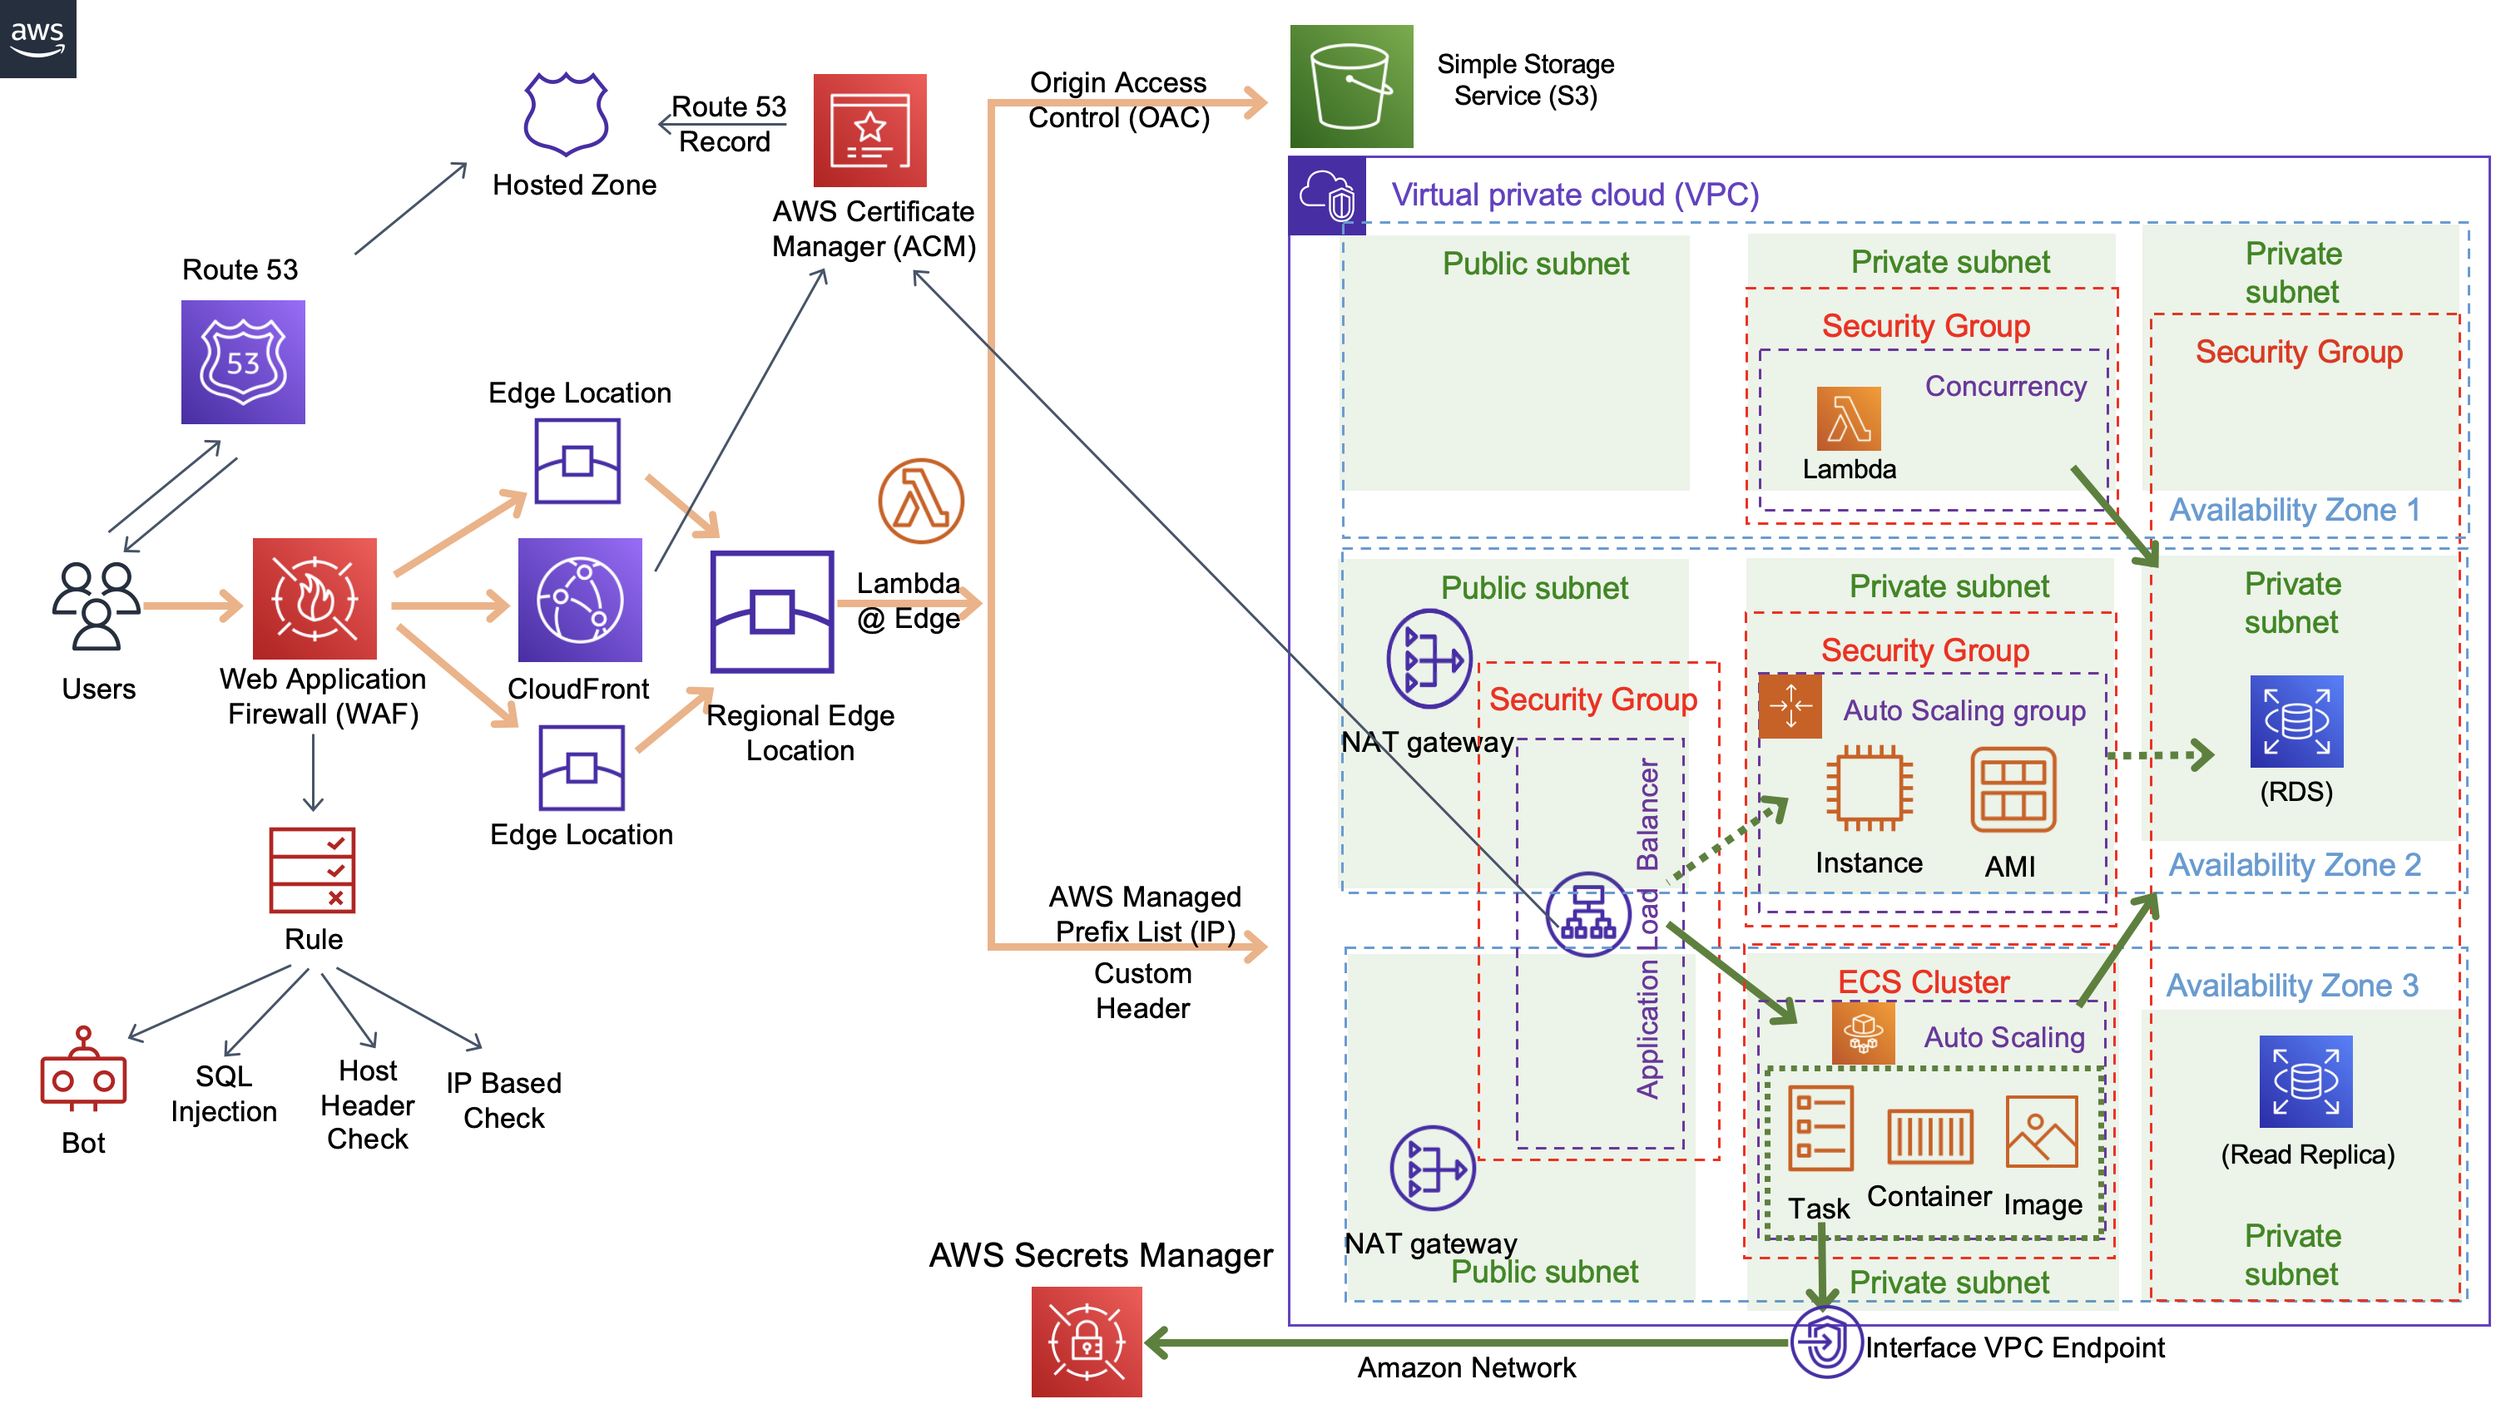
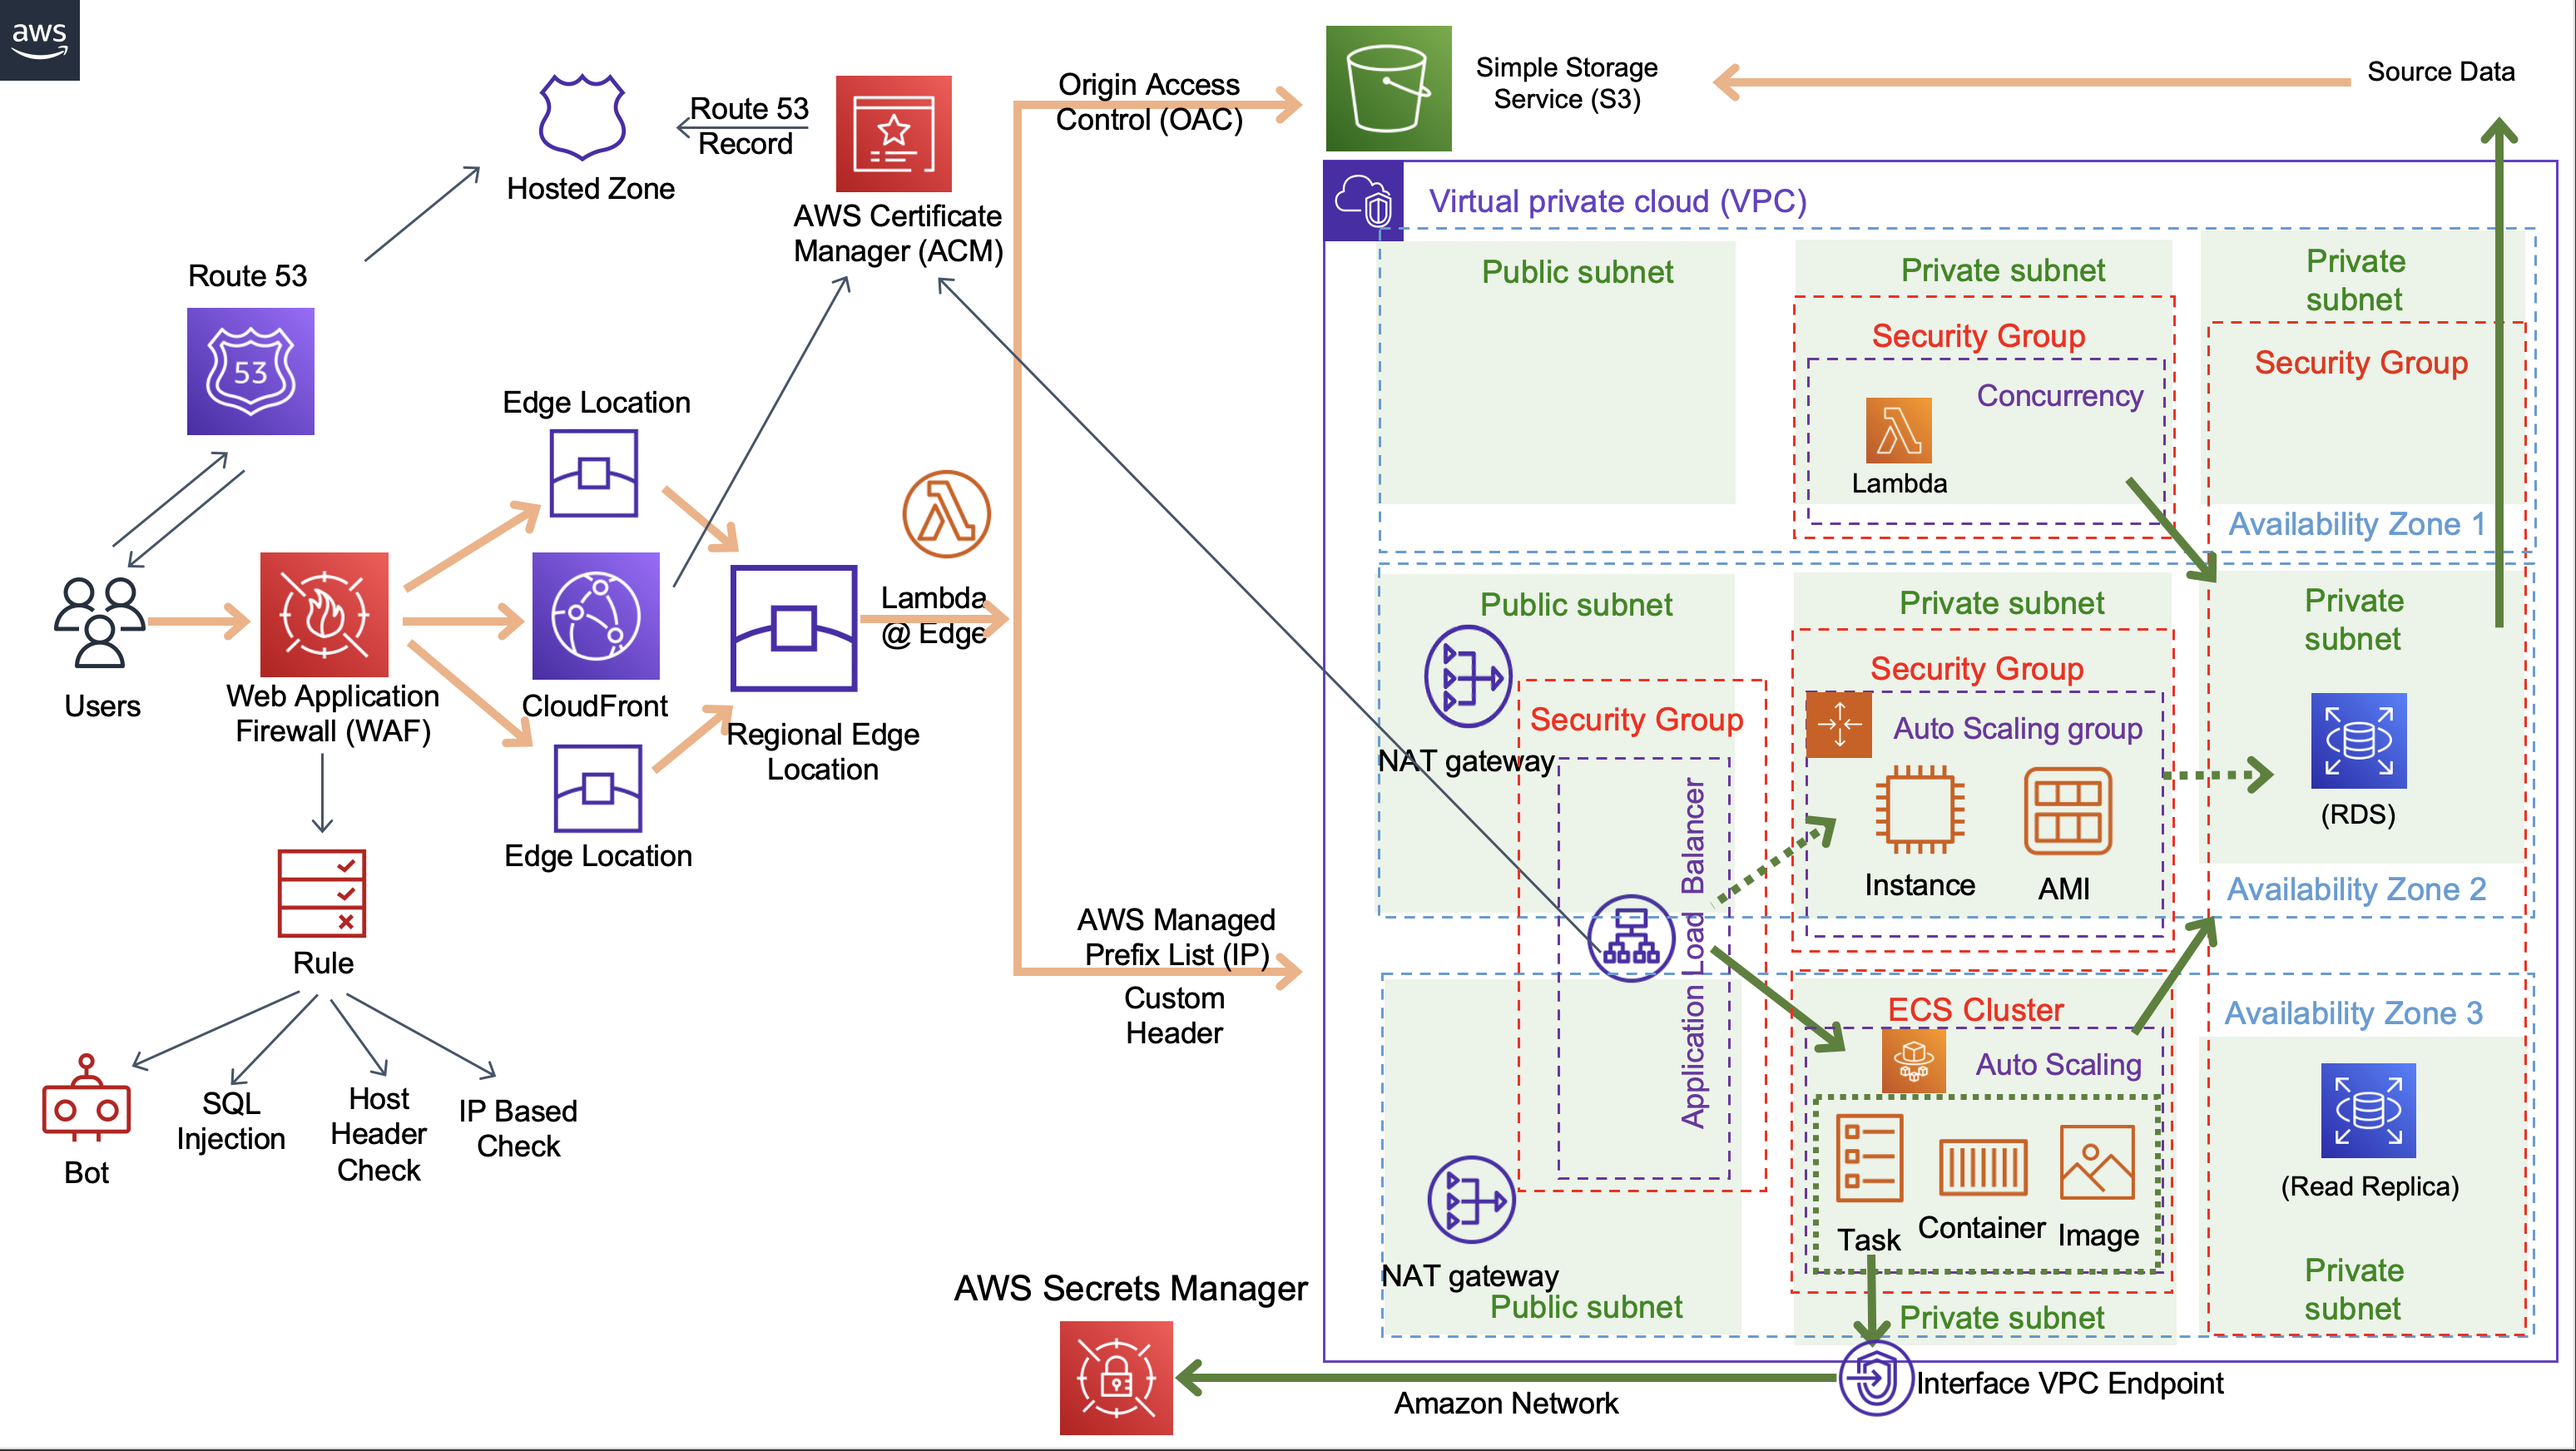
added data collection

diff --git a/1. data-collection-from-data-source.py b/1. data-collection-from-data-source.py
@@ -1,0 +1,64 @@
+### Below is to get data from data source using python ####
+### To achieve 100% automation, the file will be added as a TASK in --
+### Task Scheduler (for Windows);
+### Automator Applications (for Mac); 
+### After we successfully setup the task, this python scripts is 
+### run at 8 am every morning (for example) and the latest data is collected 
+### and uploaded to the cloud or any data storage you have.
+### From there, data is processed for further usage. Like report/dashboard building.
+### as MacOS itself doesnot have a similarity to Task Scheduler in Windows,
+### we can find alternatives in the market. The choices are many.
+
+# Required package:
+# $ pip install requests
+
+import requests
+import os
+from datetime import date
+import subprocess
+URL="https://www150.statcan.gc.ca/n1/dai-quo/ssi/homepage/ind-all.json"
+# get the data file URL
+# Canada Statistics provides the URL for data files
+s3_bucket="backup-juliaren"
+# get the name for upload s3 bucket 
+data_folder_path='data'
+
+response = requests.get(URL, allow_redirects=True)
+
+# next is to save the file in today's folder under the main folder of 'data'
+# 1) to find today's date
+today=date.today()  # the format is 2023-07-28
+# 2) to get today's folder file path
+today_folder="./data/{}".format(today)
+    # 2.1) to check today's folder exists or not 
+if os.path.isdir(today_folder):
+    today_folder_exists=1
+    # folder already exists
+else:
+    today_folder_exists=0
+    # 2.2) to create today's folder
+    os.makedirs(today_folder)
+
+# 3) to get file name from the URL
+    # 3.1) to find the last '/' in the URL
+position=URL.rfind('/') # it shows the number of the position where the last '/' is 
+print(position)
+    # 3.2) to get the file name
+file_name=URL[position+1:]
+# 4) to get the file path
+file_path=today_folder + '/'+file_name
+
+# 5) to save the file in the path created just now
+open(file_path, 'wb').write(response.content)
+
+# next is to upload the latest data files to s3 in the cloud using AWS CLI
+# 6) to get the absolute file path
+absolute_path=os.path.abspath(file_path)
+# 7) to upload the file to s3 bucket under the foler of data/today's date/
+# the AWS CLI is like : aws s3 cp "/Users/.../data/2023-07-28/ind-all.json" s3://.../data/2023-07-28/
+# 7.1) to construct command:
+command='aws s3 cp "{}" s3://{}/{}/{}/'.format(absolute_path,s3_bucket,data_folder_path,today)
+# 7.2) to execute the command in python
+process=subprocess.run(command,shell=True)
+# after the file is uploaded into s3 in the cloud, lambda will be invoked and work on data processing
+# the data will go through ETL to its destination in DB

diff --git a/README_Data_Collection.md b/README_Data_Collection.md
@@ -1,0 +1,43 @@
+#### Data Collection using Automator, Python, and AWS Services 
+
+### '1. data-collection-from-data-source'.py file is to collect and transfer raw data.
+
+### To achieve 100% automation, the file will be added as a TASK in --
+### Task Scheduler (for Windows);
+### or Automator Applications (for Mac); 
+### After we successfully setup the task, this python scripts are 
+### run at 8 am every morning (for example) and the latest data is collected 
+### and uploaded to the cloud or any data storage you have.
+### From there, data is processed in Streaming Platform, Database, or Data Warehouse for further usage. 
+### The processed data can be transferred to data storage where reports or dashobards can be built.
+
+### Note: MacOS itself doesnot have a similarity to Task Scheduler in Windows.
+### We can find alternatives in the market. The choices are many.
+
+
+=============> Python Scripts
+# To download the file from data source.
+  ## The Datasource the website uses is the official website of 'Canada Statistics'
+
+# To save the file in today's folder under the main folder of 'data' locally
+# 1) to find today's date
+# 2) to get today's folder file path
+# 3) to get the file name from the URL
+# 4) to get the file path
+# 5) to save the file in the path created just now
+
+# To upload the latest data files to s3 in the cloud using AWS CLI
+# 6) to get the absolute file path
+# 7) to upload the file to s3 bucket under the foler of data/today's date/
+# the AWS CLI is like : aws s3 cp "/Users/.../data/2023-07-28/ind-all.json" s3://.../data/2023-07-28/
+# 7.1) to construct command:
+# 7.2) to execute the command in python
+
+# After the file is uploaded into s3 in the cloud, lambda and ECS will be invoked and work on data processing. 
+
+# The Data will go through ETL to its destination in the database (for this project).
+
+# The report data will be calculated and saved in the s3 where the website hosts. Charts on the website will be updated with the latest data. 
+
+=============> 
+**** From the very beginning of data collection until the data analytics publishing, there is no manual process at all.
